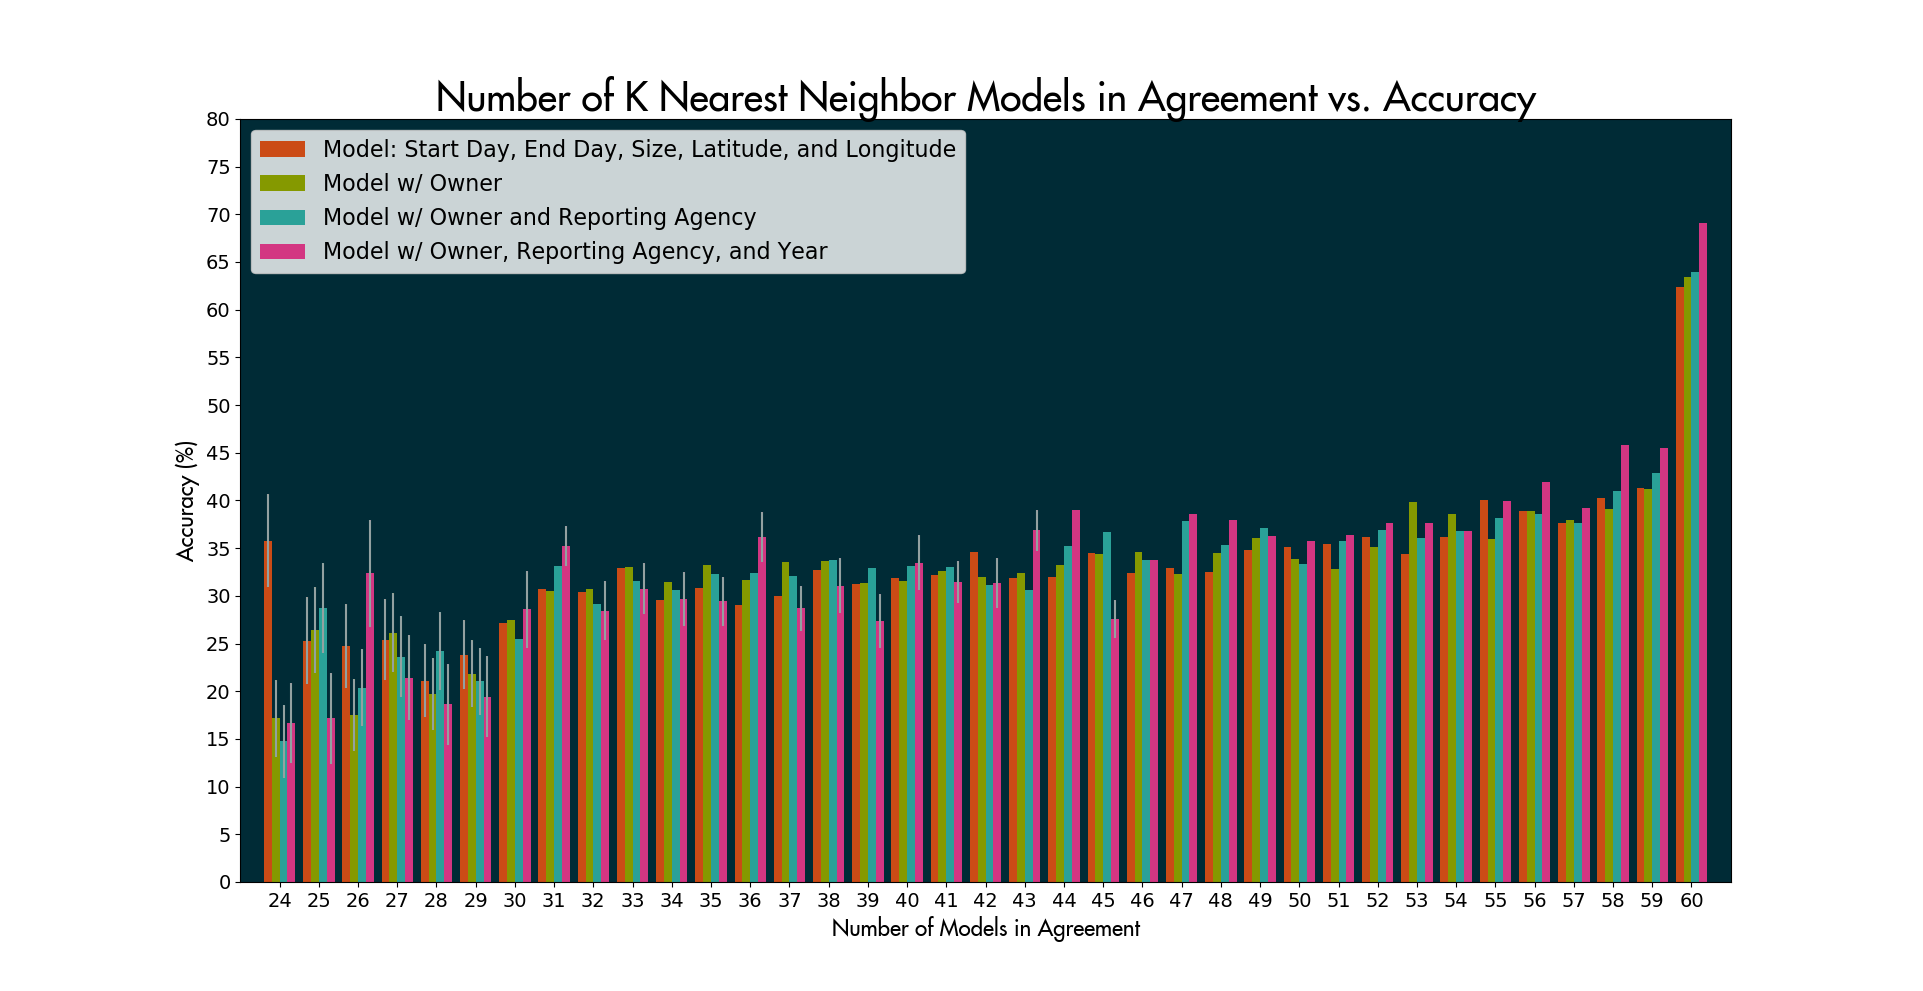
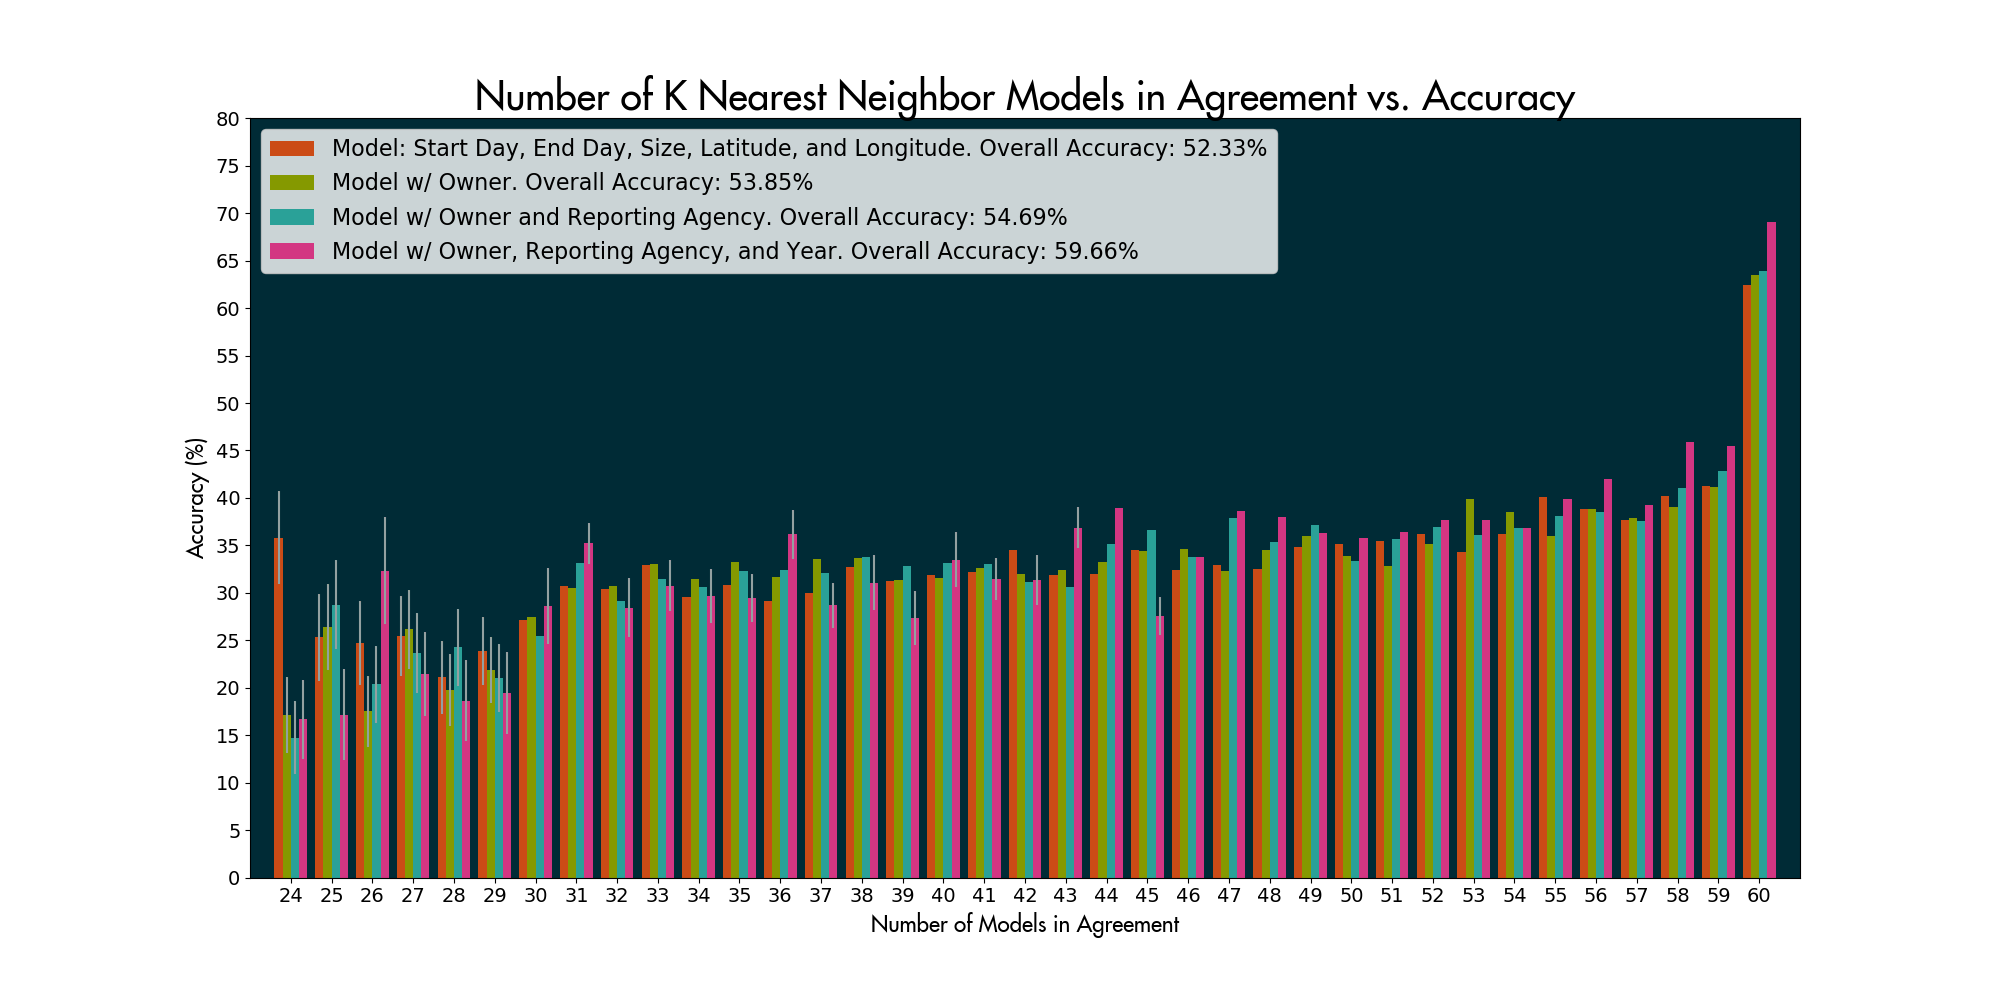
update graphs

diff --git a/knn_graphs.py b/knn_graphs.py
@@ -1,11 +1,11 @@
-#make graphs of the results
+#make graphs of the results of the number of neighbors testing for all of the models
 
 import csv
 import matplotlib.pyplot as plt
 import os
 import matplotlib.font_manager as fm
 
-
+#set up font from the file
 fpath = os.path.join("Futura.ttf")
 prop = fm.FontProperties(fname=fpath)
 fname = os.path.split(fpath)[1]
@@ -19,10 +19,21 @@ x3 = []
 y3 = []
 x4 = []
 y4 = []
+x5 = []
+y5 = []
 
 
-
+#load in 500 rows of data from each. Some contain more rows than that, but due to time constraints more could not be run on all
 length = 500
+count = 0
+with open('results9.csv') as f:         #Start DOY, End DOY, Size, Lat, Long, Owner, Reporting agency, Year
+    reader = csv.DictReader(f)
+    for row in reader:
+        if(count <= length):
+            x5.append(int(row["NEIGHBORS"]))
+            y5.append(float(row["ACCURACY"]))
+        count+=1
+f.close()
 
 count = 0
 with open('results7.csv') as f:         #Start DOY, End DOY, Size, Lat, Long, Owner, Reporting agency
@@ -43,7 +54,6 @@ with open('results5.csv') as f:         #Start DOY, End DOY, Size, Lat, Long, Ow
             y3.append(float(row["ACCURACY"]))
         count+=1
 f.close()
-
 
 count = 0
 with open('results3.csv') as f:             #Start DOY, End DOY, Size, Lat, Long, and Year
@@ -66,37 +76,35 @@ with open('results.csv') as f:              #Start DOY, End DOY, Size, Lat, Long
 f.close()
 
 
-
+#initilize the graph
 fig, ax = plt.subplots(figsize=(20, 10))
 ax.set_facecolor('#002b36')
-print(max(y1))
+
+#plot the data
 ax.plot(x1, y1, "o", color="#cb4b16")
 #ax.plot(x2, y2, "o", color="red")
 ax.plot(x3, y3, "o", color="#859900")
 ax.plot(x4, y4, "o", color="#2aa198")
+ax.plot(x5, y5, "o", color="#d33682")
+
+#title and labels
 ax.set_title("K Nearest Neighbors Accuracy".format(fname), fontproperties=prop, size=28)
 ax.set_xlabel("Number of Neighbors (K)".format(fname), fontproperties=prop, size=16)
+ax.set_ylabel("Accuracy (%)".format(fname), fontproperties=prop, size=16)
+
+#style axis ticks and numbers
 ax.set_yticks(range(40, 61, 1))
 ax.set_xticks(range(0, length+6, 100))
 for tick in ax.xaxis.get_major_ticks():
     tick.label.set_fontsize(14)
 for tick in ax.yaxis.get_major_ticks():
     tick.label.set_fontsize(14)
-ax.set_ylabel("Accuracy (%)".format(fname), fontproperties=prop, size=16)
+#set limits
 ax.set_xlim([-5, length+5])
 ax.set_ylim([40, 60])
-ax.legend(["Model using fire start date, end date, size, and location", "Model using fire start date, end date, size, location, and owner", "Model using fire start date, end date, size, location, owner, and reporting agency"], fontsize=16)
-# im = plt.imread("bg.jpg")
-# ax.imshow(im, extent=[-5, (length+5), 40, 60], aspect="auto", alpha=0.90)
 
-
-
-# p = np.polyfit(x1, y1, 2)
-# x = np.arange(0.01, 1000.0, 0.1)
-# chi_squared = np.sum((np.polyval(p, x1) - y1) ** 2)
-# print(chi_squared)
-#ax.plot(t, ( np.log(t) / (t) + 51 ))
-#ax.plot(t, (-0.002*t)**2 + 0.001*t + 45)
+#legend
+ax.legend(["Model using fire start date, end date, size, and location", "Model using fire start date, end date, size, location, and owner", "Model using fire start date, end date, size, location, owner, and reporting agency", "Model using fire start date, end date, size, location, owner, reporting agency, and year"], fontsize=16)
 
 
 plt.show()

diff --git a/multi_graphs.py b/multi_graphs.py
@@ -1,19 +1,21 @@
+#make graphs of the results from the multi model tests
+
 import csv
 import matplotlib.pyplot as plt
-import numpy as np
 from scipy import stats
-import sys
 import os
 import matplotlib.font_manager as fm
 
-
+#init plot
 fig, ax = plt.subplots(figsize=(20, 10))
 ax.set_facecolor('#002b36')
 
+#set up font
 fpath = os.path.join("Futura.ttf")
 prop = fm.FontProperties(fname=fpath)
 fname = os.path.split(fpath)[1]
 
+#define files to load in, set the colors and legend labels
 files = ["results2.csv", "results4.csv", "results6.csv", "results8.csv"]
 names = ["Model: Start Day, End Day, Size, Latitude, and Longitude", "Model w/ Owner", "Model w/ Owner and Reporting Agency", "Model w/ Owner, Reporting Agency, and Year"]
 colors = ["#cb4b16", "#859900", "#2aa198", "#d33682"]
@@ -37,7 +39,8 @@ for file in files:
     for row in data:
         sum += row[2]
         total += row[1]
-    print("total accuracy " + names[count] + ": " + str(sum/total*100))
+    print("total accuracy " + names[count] + ": " + str(sum/total*100))         # calculate and show total accruacy
+    names[count] += ". Overall Accuracy: " + str(round(sum/total*100, 2)) + "%"
 
     X = []
     for row in data:
